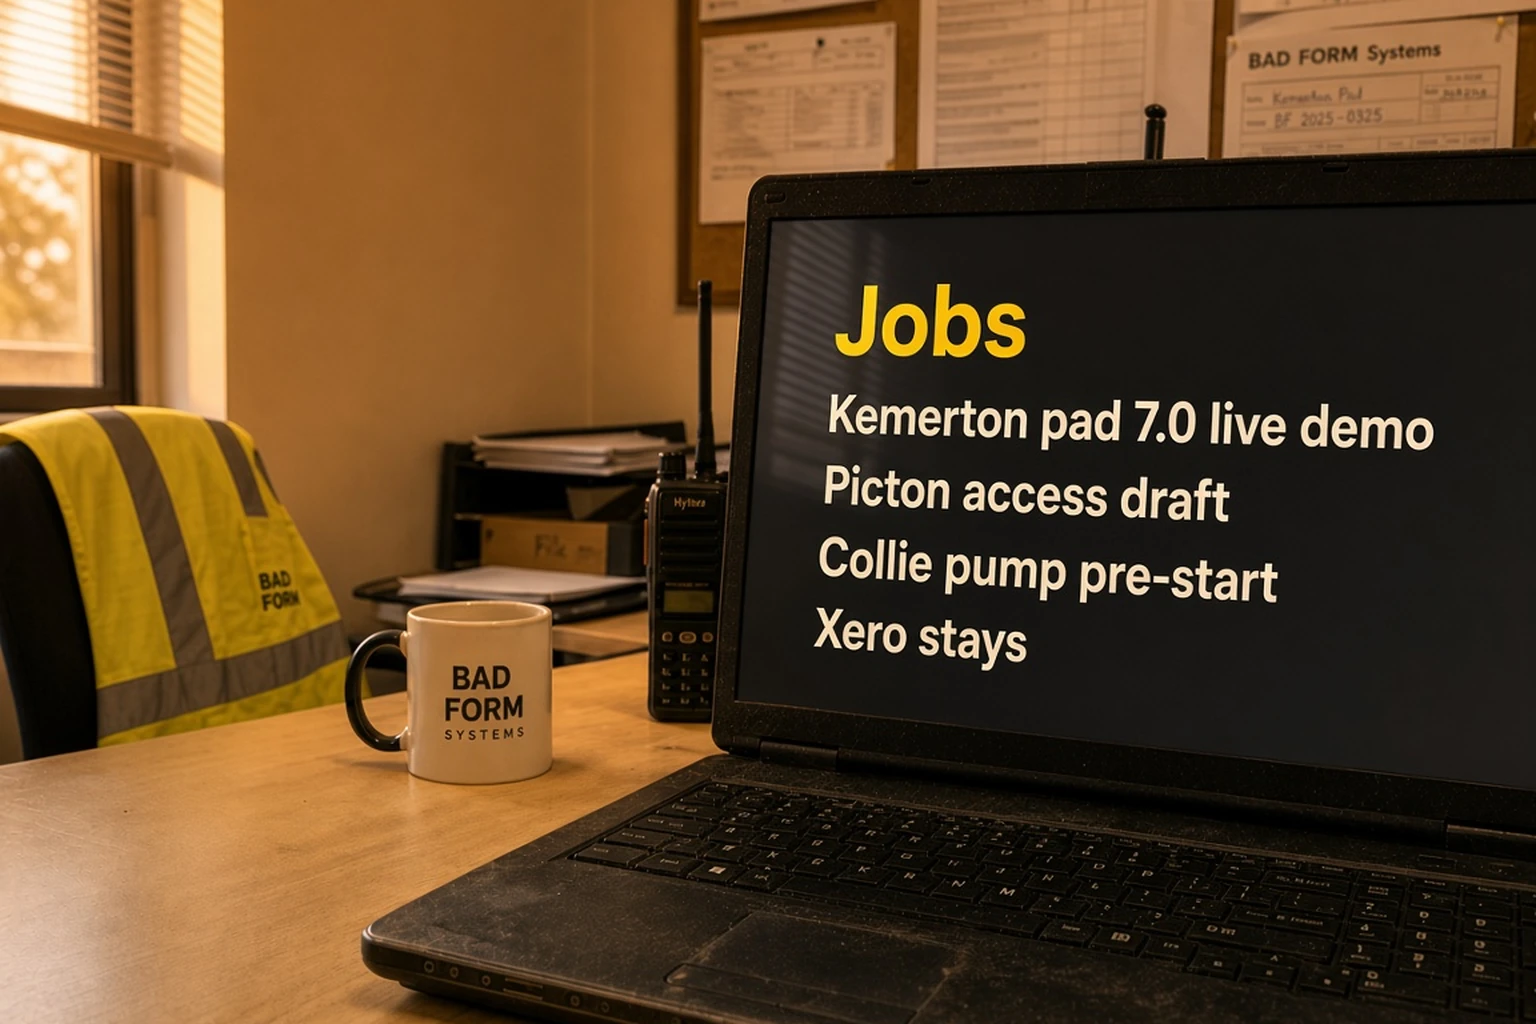
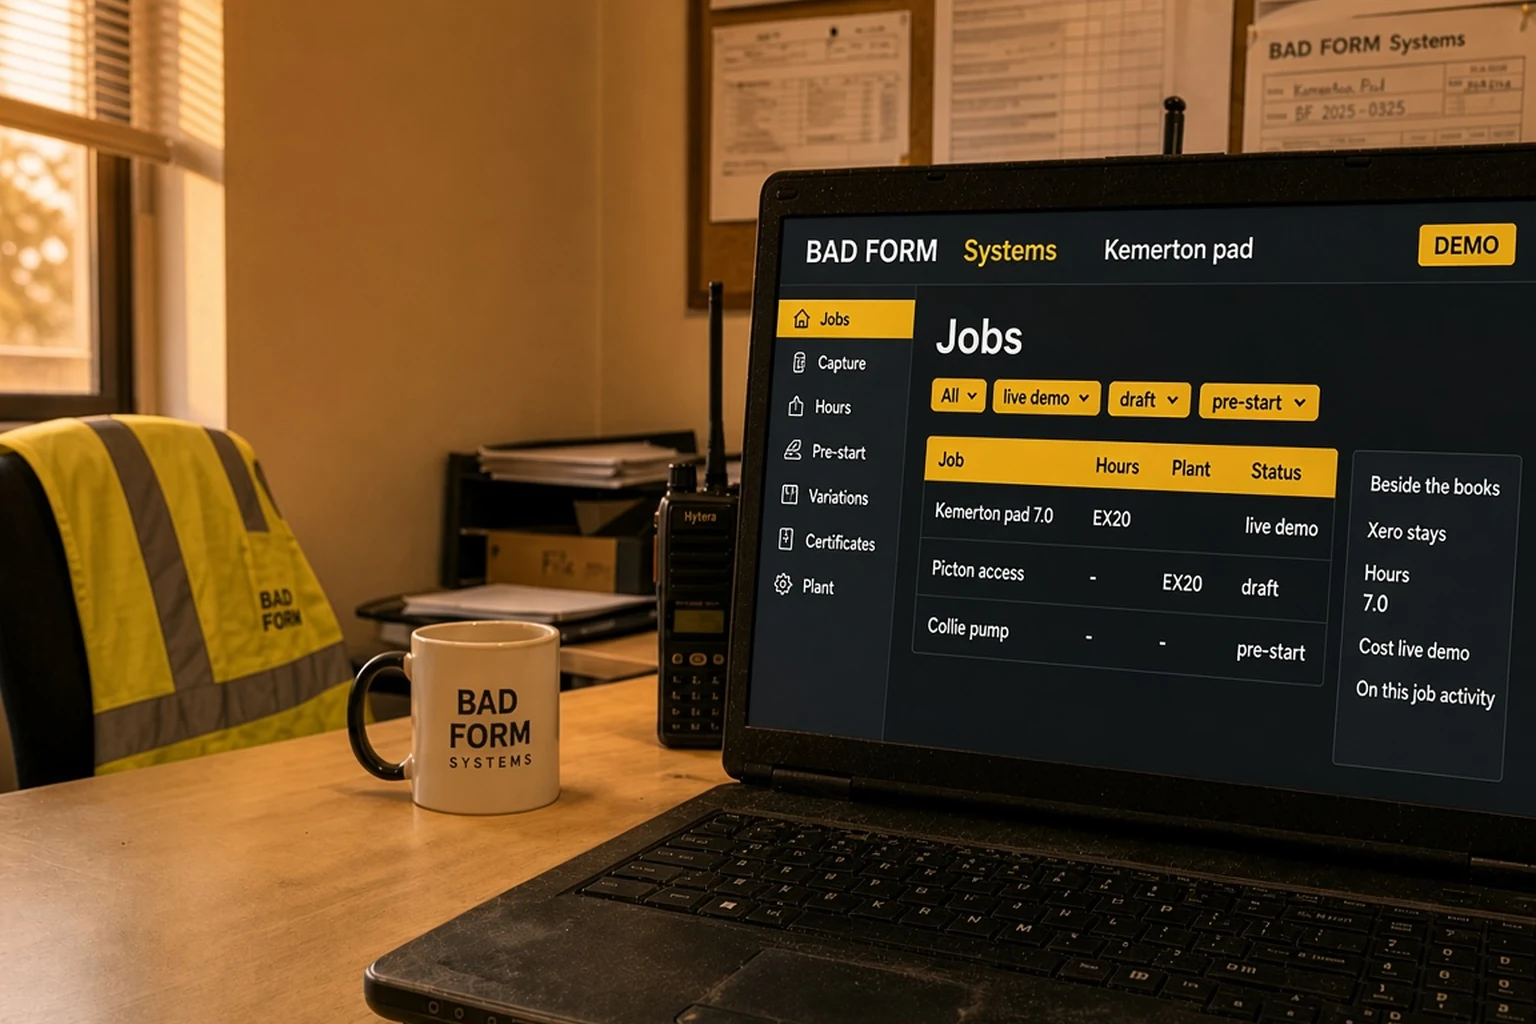
Reshoot lab stills with a built-out IMS in the glass.
Native cab and office photographs of the denser field phone and jobs IMS, not four-line dummy type and not a warped HTML plate. Homepage stills stay on rollback.

diff --git a/src/components/lab/ims/PhoneIms.tsx b/src/components/lab/ims/PhoneIms.tsx
@@ -71,7 +71,7 @@ export function PhoneIms({ paint }: PhoneImsProps) {
         <div className="ims-list">
           {list.map((item, index) => {
             const Icon = listIcons[item.id as keyof typeof listIcons];
-            const hint = "hint" in item ? item.hint : undefined;
+            const hint = "hint" in item && typeof item.hint === "string" ? item.hint : undefined;
             return (
               <div
                 key={item.id}
